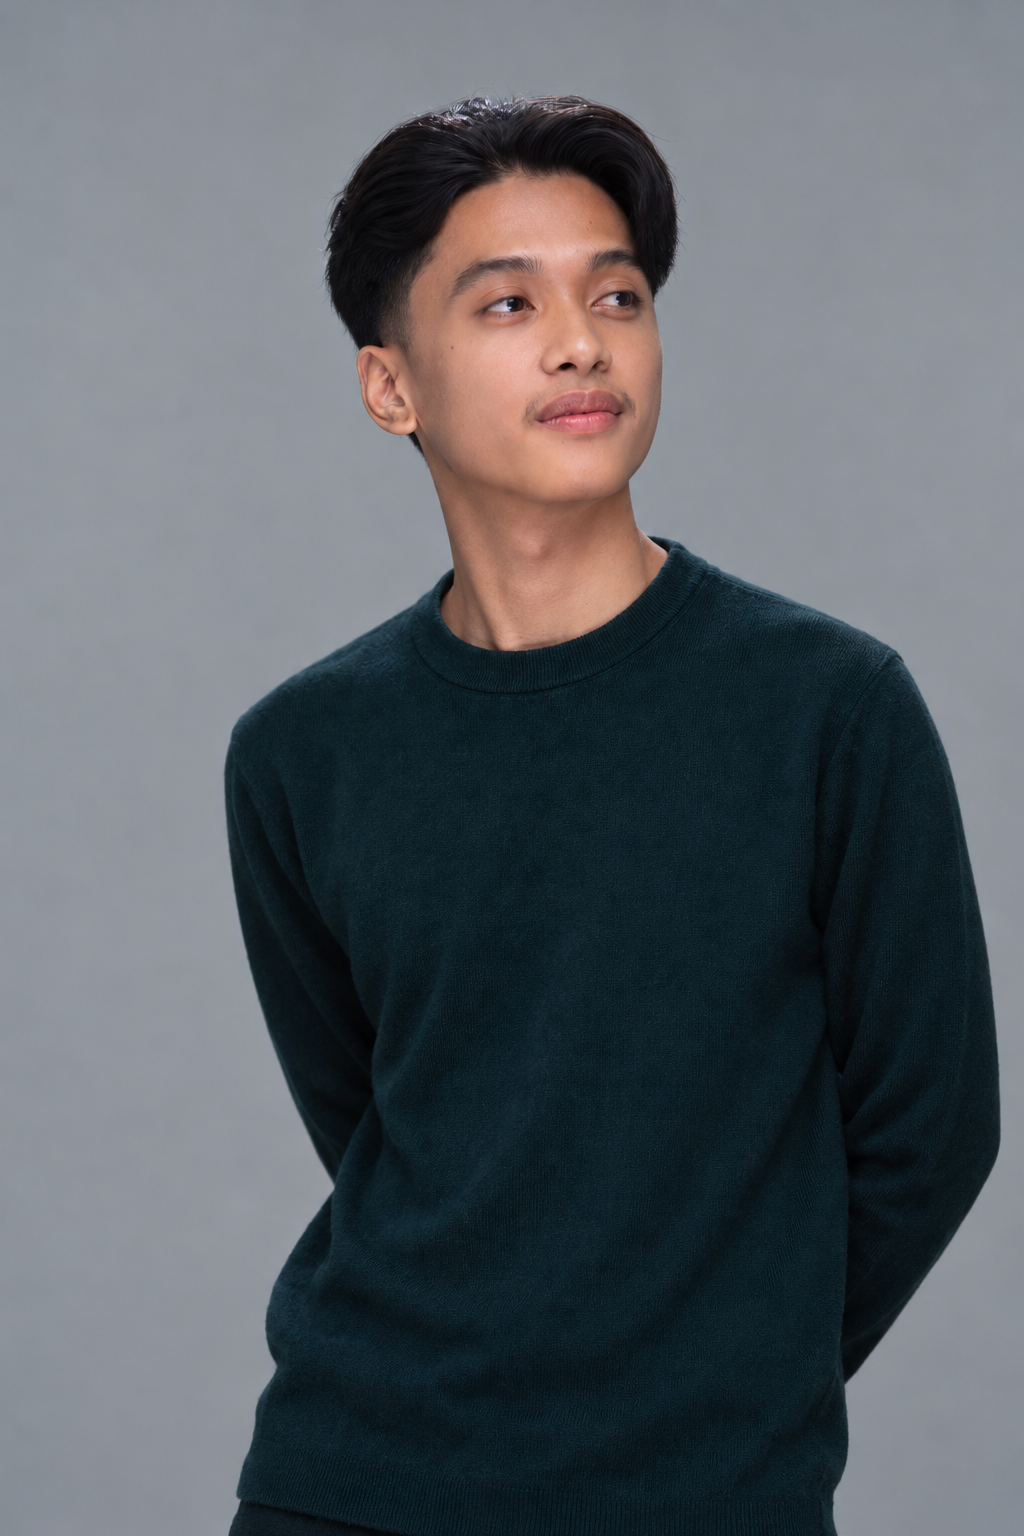
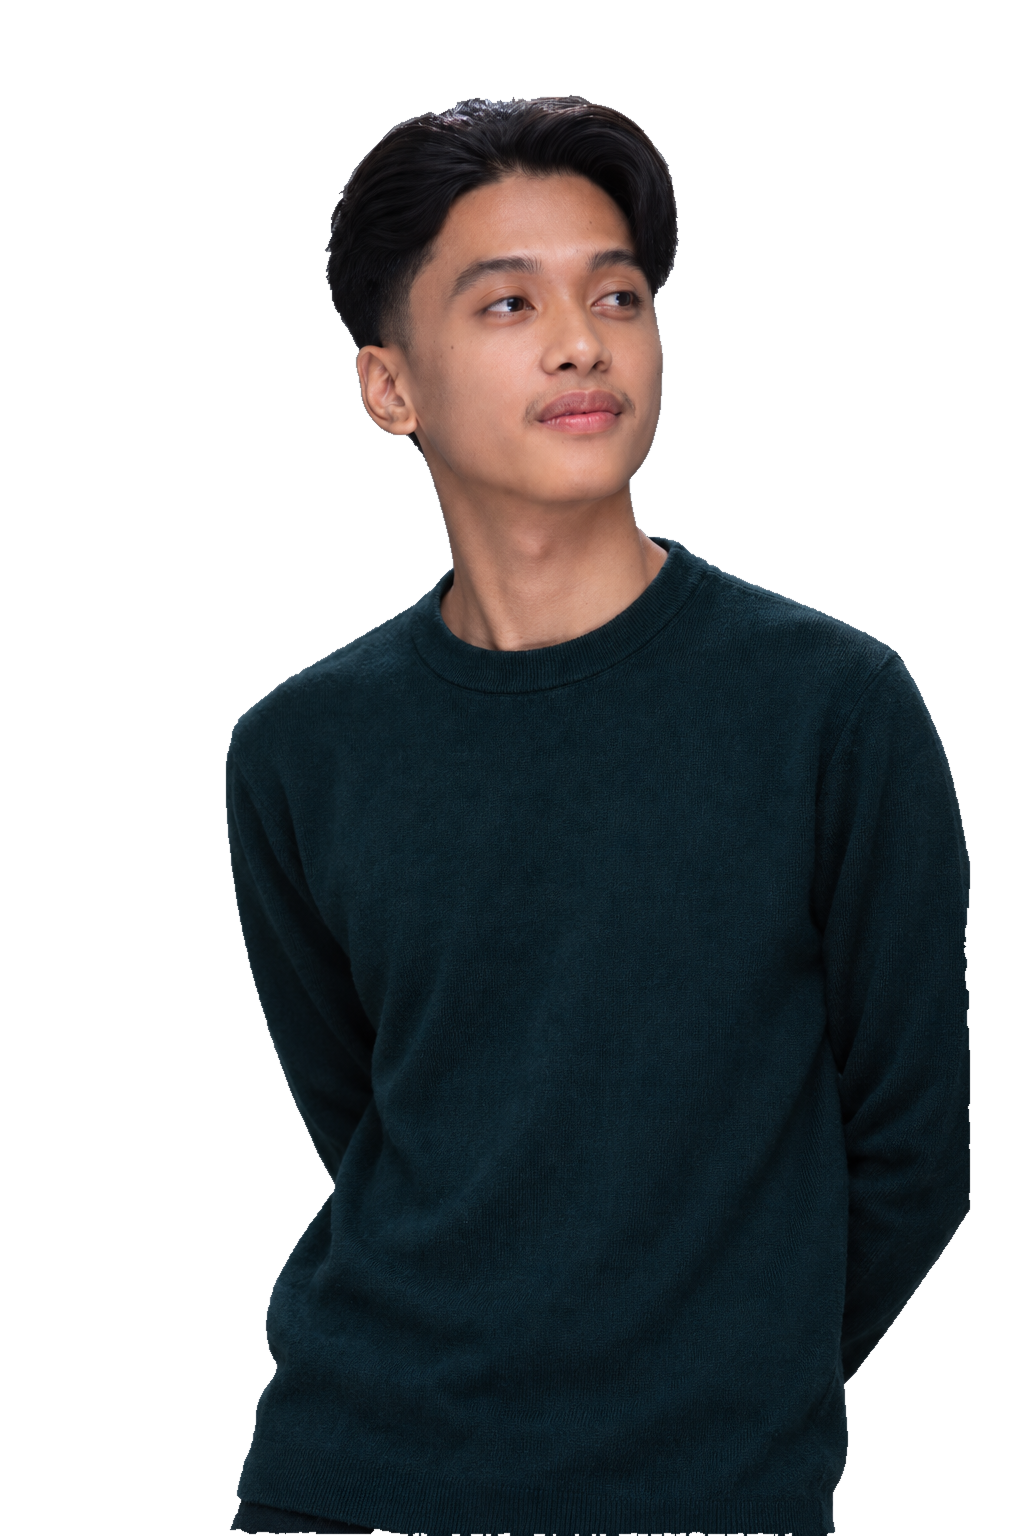
chore: replace hero image with new cutout and significantly increase container size for proper scaling

diff --git a/src/components/Hero.tsx b/src/components/Hero.tsx
@@ -115,14 +115,14 @@ export function HeroSection() {
       {/* Portrait — center anchor */}
       <div 
         ref={photoRef} 
-        className="absolute left-1/2 -translate-x-1/2 bottom-0 h-[60vh] md:h-[85vh] w-[65vw] md:w-[40vw] lg:w-[32vw] z-30 will-change-transform pointer-events-none"
+        className="absolute left-1/2 -translate-x-1/2 bottom-0 h-[70vh] md:h-[95vh] w-[85vw] md:w-[65vw] lg:w-[55vw] z-30 will-change-transform pointer-events-none"
       >
         <Image
           src="/profile-cutout.png"
           alt="Cris John Labiaga"
           fill
           priority
-          sizes="(max-width: 768px) 65vw, (max-width: 1024px) 40vw, 32vw"
+          sizes="(max-width: 768px) 85vw, (max-width: 1024px) 65vw, 55vw"
           className="object-contain object-bottom drop-shadow-2xl"
         />
       </div>
